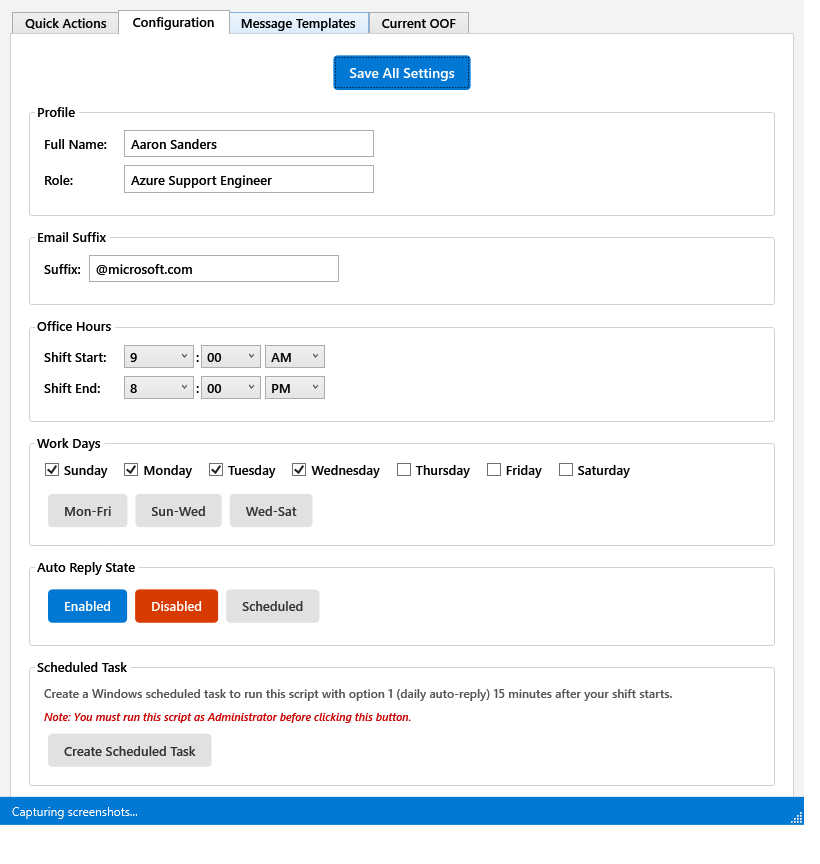
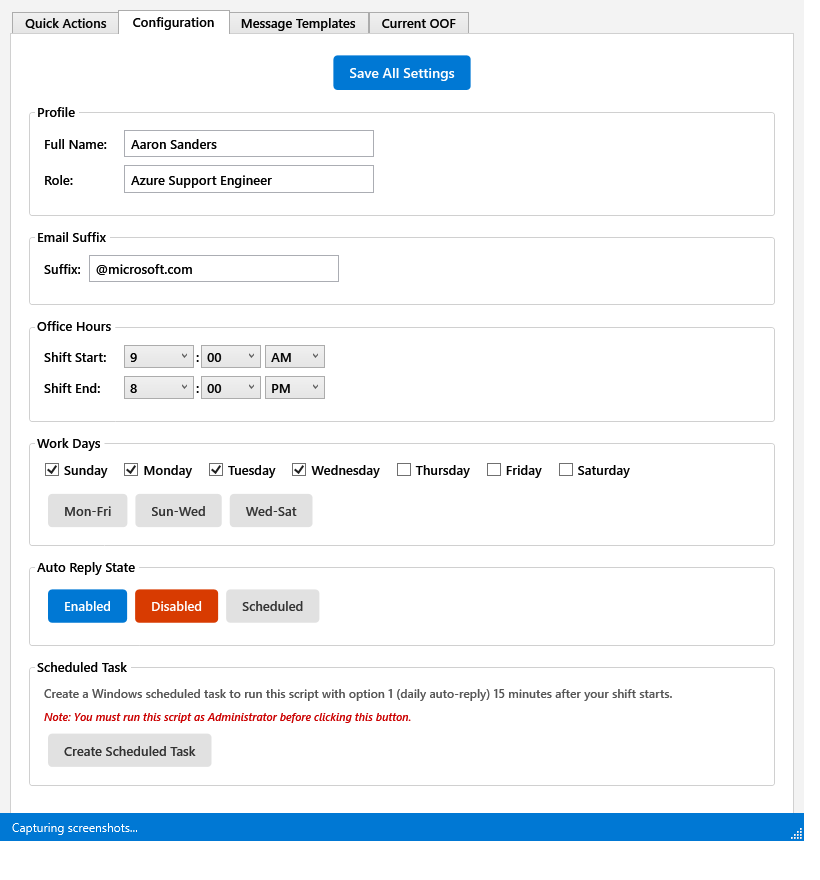
update screenshot logic and window size

diff --git a/config/AAOOF-GUI.xaml b/config/AAOOF-GUI.xaml
@@ -1,7 +1,7 @@
 <Window xmlns="http://schemas.microsoft.com/winfx/2006/xaml/presentation"
         xmlns:x="http://schemas.microsoft.com/winfx/2006/xaml"
-        Title="Daily OOF - Out of Office Automation" Width="820" SizeToContent="Height"
-        MinWidth="820"
+        Title="Daily OOF - Out of Office Automation" Height="880" Width="820"
+        MinHeight="750" MinWidth="820"
         WindowStartupLocation="CenterScreen" ResizeMode="CanResizeWithGrip"
         Background="#F3F3F3" FontFamily="Segoe UI">
     <Window.Resources>
